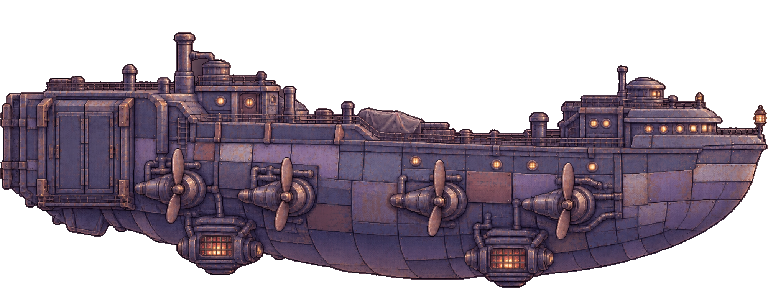
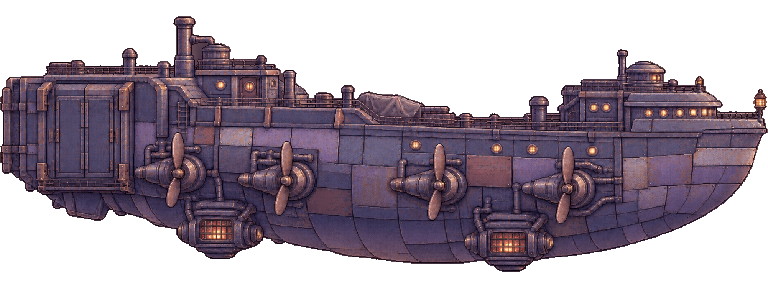
fix(h1): vérification des livraisons du cahier n° 2, cadrages retouchés
Atlas du sol refait avec les tuiles du lot B. L'outil ne signale plus
une coupure qu'au-delà de 12 % d'un bord (les images livrées, cadrées au
plus juste, touchent leur bord sur 1 à 5 %) ; îles lointaines et rais de
lumière sans ancre au sol ; nuages, brume et dirigeables lointains
centrés par leur cadre. Quatre dirigeables lointains et un nuage
recentrés, tache d'huile effilochée. 399 images, 0 à reprendre.

Claude-Session: https://claude.ai/code/session_019NfiSKjta1ymK1rKpk9RxJ

diff --git a/tools/hd2d_assets.py b/tools/hd2d_assets.py
@@ -291,13 +291,23 @@ def _mask(img, soft):
     return img.getchannel("A").point(lambda v: 255 if v >= (SOFT_LEVEL if soft else HARD_LEVEL) else 0)
 
 
-def _border_hits(mask):
-    """Bords touchés par la silhouette : ensemble de « left », « right », « top », « bottom »."""
+# Part d'un bord (ligne de pixels extérieure) au-delà de laquelle la silhouette y est coupée net :
+# une image livrée cadrée au plus juste touche souvent son bord sur quelques pixels (1 à 5 %), ce
+# qui ne se voit pas en jeu ; une coupure franche en couvre bien plus.
+CUT_COVER = 0.12
+
+
+def _border_hits(mask, min_cover=0.0):
+    """Bords touchés par la silhouette (plus de min_cover de la ligne extérieure couverte) :
+    ensemble de « left », « right », « top », « bottom »."""
     w, h = mask.size
     hits = set()
     for side, box in (("left", (0, 0, 1, h)), ("right", (w - 1, 0, w, h)), ("top", (0, 0, w, 1)),
                       ("bottom", (0, h - 1, w, h))):
-        if mask.crop(box).getbbox() is not None:
+        if min_cover <= 0.0:
+            if mask.crop(box).getbbox() is not None:
+                hits.add(side)
+        elif _coverage(mask, box) > min_cover:
             hits.add(side)
     return hits
 
@@ -332,13 +342,22 @@ def _check_standing(img, entry, label=""):
     kind = entry["kind"]
     wrap = entry.get("wrap", "")
     hits = _border_hits(mask)
+    if entry.get("anchor") == "free":
+        # Lointain qui flotte (île, rai de lumière) : le jeu le place, pas d'ancre à vérifier.
+        return problems
     if entry.get("anchor") == "center":
-        cut = [SIDE_NAMES[s] for s in ("left", "right", "top", "bottom") if s in hits
+        cuts = _border_hits(mask, CUT_COVER)
+        cut = [SIDE_NAMES[s] for s in ("left", "right", "top", "bottom") if s in cuts
                and not (wrap == "x" and s in ("left", "right")) and not (wrap == "y" and s in ("top", "bottom"))]
         if cut:
             problems.append(label + "coupé par le bord %s (sprite centré : marge tout autour)" % ", ".join(cut))
-        cx, cy = _centroid(mask)
         w, h = img.size
+        if kind == "panel":
+            # Nuage, brume, dirigeable lointain : centré par son cadre (un cumulus est plus lourd
+            # en bas). Ce qui tourne sur son centre (hélice, feuille : bandes) l'est par sa masse.
+            cx, cy = (box[0] + box[2]) / 2.0, (box[1] + box[3]) / 2.0
+        else:
+            cx, cy = _centroid(mask)
         if (wrap != "x" and abs(cx - w / 2.0) > 0.1 * w) or (wrap != "y" and abs(cy - h / 2.0) > 0.1 * h):
             problems.append(label + "pas centré (masse en %d, %d au lieu de %d, %d)" % (cx, cy, w / 2, h / 2))
         return problems
@@ -384,6 +403,7 @@ def _check_decal(img, entry):
     wrap = entry.get("wrap", "")
     solid = entry.get("solid_edge", "")
     hits = _border_hits(mask)
+    cuts = _border_hits(mask, CUT_COVER)
     allowed = set()
     if wrap == "x":
         allowed |= {"left", "right"}
@@ -391,7 +411,7 @@ def _check_decal(img, entry):
         allowed |= {"top", "bottom"}
     if solid:
         allowed.add(solid)
-    cut = [SIDE_NAMES[s] for s in ("left", "right", "top", "bottom") if s in hits and s not in allowed]
+    cut = [SIDE_NAMES[s] for s in ("left", "right", "top", "bottom") if s in cuts and s not in allowed]
     if cut:
         problems.append("coupé par le bord %s (décalque : bord effiloché qui se fond dans le sol)" % ", ".join(cut))
     if solid and solid not in hits:

diff --git a/docs/DECISIONS.md b/docs/DECISIONS.md
@@ -1668,3 +1668,13 @@ union entre lots) : `- **L<N> — sujet** : décision ; raison.`
   page d'aperçus) et `tools/hd2d_correction_review.py` (outil ponctuel qui l'alimente) retirés de
   l'arbre, comme les sources des livraisons précédentes : ils restent dans l'historique de `main`
   (commit `28d49f3`). La ligne de `.gitattributes` qui visait la page est retirée aussi.
+- **Livraisons du cahier n° 2 par Codex (PR n° 9 à 12 : lots G, E, C, B, 140 images)** intégrées
+  par-dessus les remplaçants de H10 (les images livrées prennent leur place, chemins et `.import`
+  inchangés) ; atlas du sol refait (27 tuiles, dont 15 livrées). `check` signalait 41 images :
+  presque toutes cadrées au plus juste, qui touchent leur bord sur 1 à 5 % de sa longueur (rien
+  ne se voit en jeu). L'outil ne parle plus de coupure qu'au-delà de 12 % du bord (`CUT_COVER`),
+  l'ancrage au sol reste vérifié au moindre pixel ; les lointains qui flottent (îles, rais de
+  lumière) n'ont plus d'ancre au sol (`anchor: free`) ; nuages, brume et dirigeables lointains
+  sont centrés par leur cadre (les hélices et les feuilles, qui tournent, par leur masse).
+  Retouches sans perte : quatre dirigeables lointains et un nuage recentrés par décalage de
+  pixels ; la tache d'huile, coupée au bord droit sur 14 %, effilochée sur 6 px de chaque côté.
